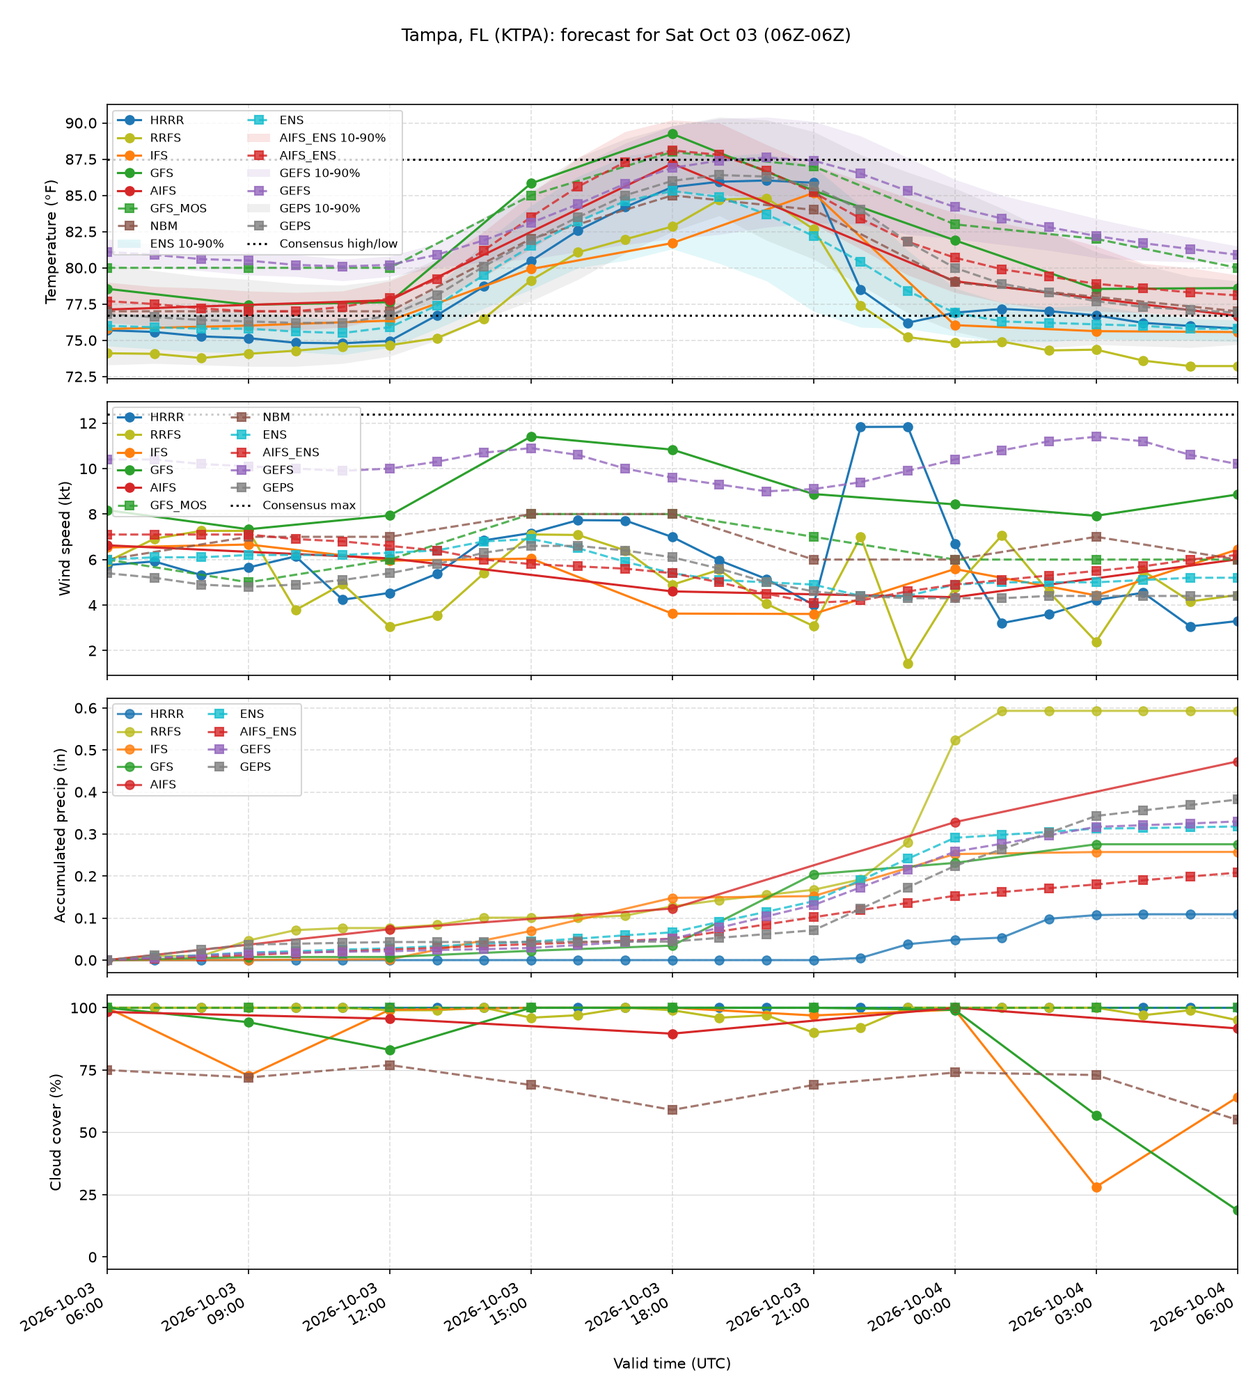
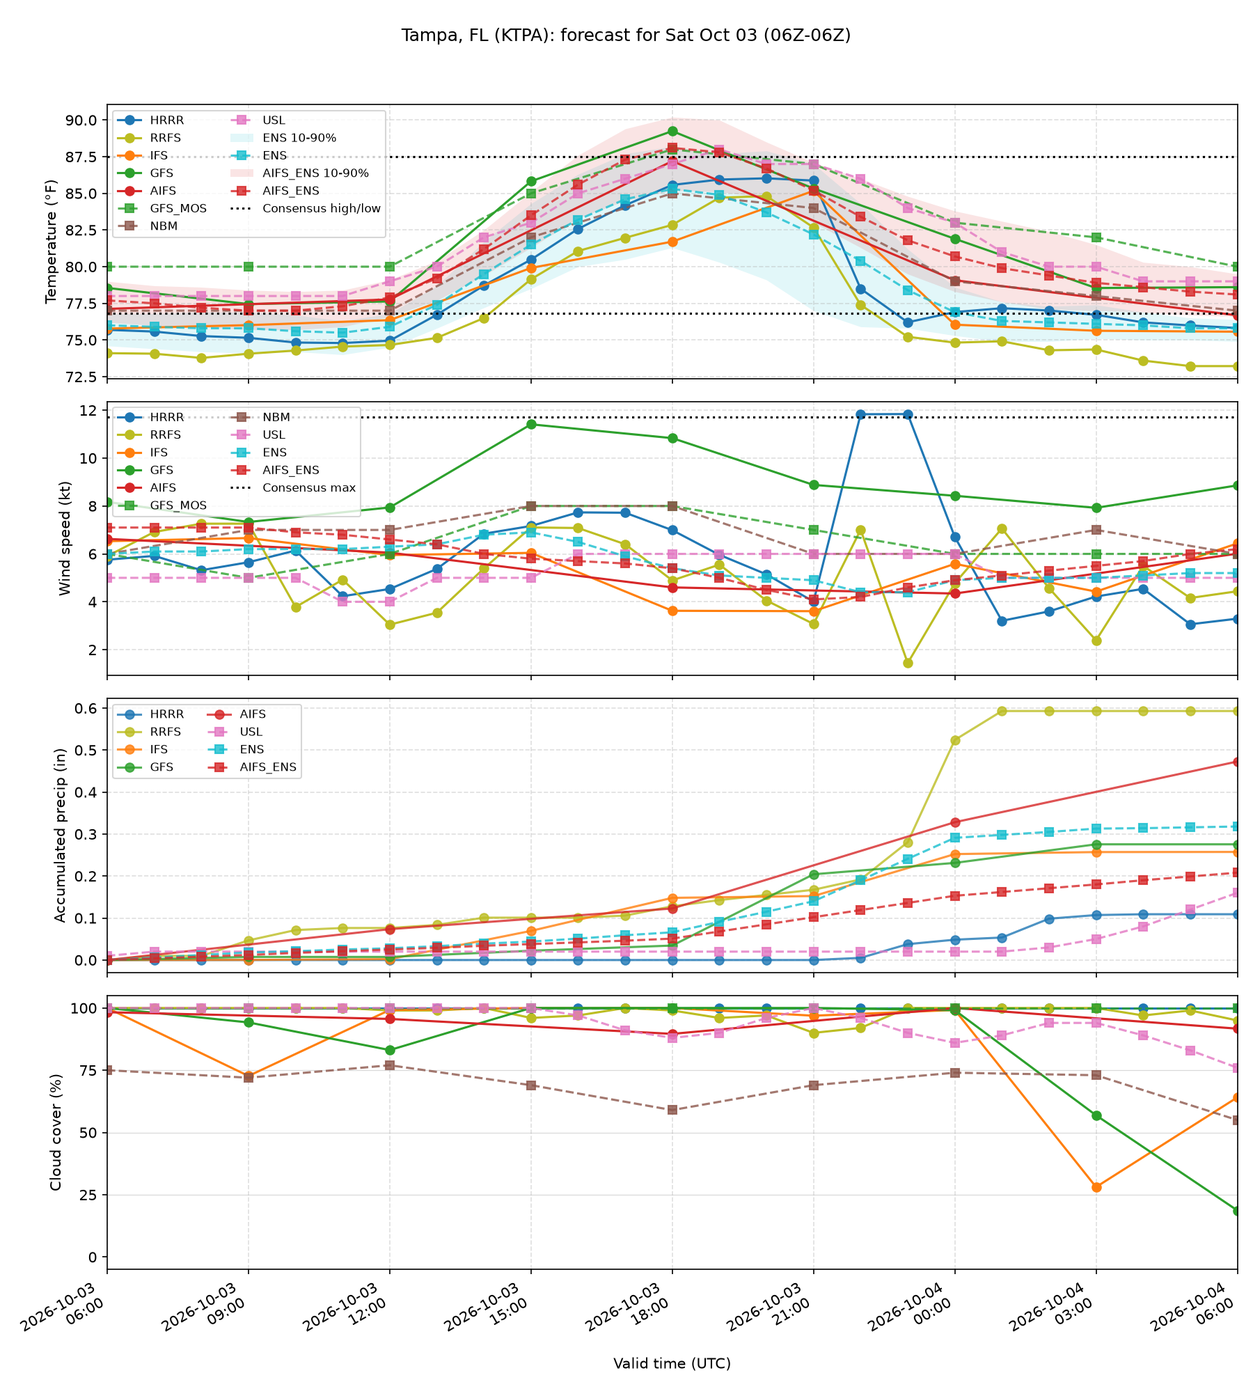
update wxchallenge: 2026-10-02T16:09:18+00:00

diff --git a/weather-forecasts/wxchallenge/index.html b/weather-forecasts/wxchallenge/index.html
@@ -15,6 +15,8 @@
       --neu:#f0efec; --c1:#86b6ef; --c2:#2a78d6; --c3:#184f95; --w1:#f09a99; --w2:#e34948; --w3:#a82c2c;
       --tip:#1f1f1e; --tip-ink:#ffffff;
       --hind:#e6ebf2; --hind-ink:#3d4250;
+      /* categorical series (PoP chart): fixed slot order, light steps */
+      --s1:#2a78d6; --s2:#eb6834; --s3:#1baf7a; --s4:#eda100;
       color-scheme: light;
     }
     @media (prefers-color-scheme: dark){
@@ -26,6 +28,7 @@
         --neu:#383835; --c1:#184f95; --c2:#2a78d6; --c3:#86b6ef; --w1:#a82c2c; --w2:#e34948; --w3:#f09a99;
         --tip:#f5f4f1; --tip-ink:#0b0b0b;
         --hind:#262c36; --hind-ink:#c9d1e0;
+        --s1:#3987e5; --s2:#d95926; --s3:#199e70; --s4:#c98500;
         color-scheme: dark;
       }
     }
@@ -37,6 +40,7 @@
       --neu:#383835; --c1:#184f95; --c2:#2a78d6; --c3:#86b6ef; --w1:#a82c2c; --w2:#e34948; --w3:#f09a99;
       --tip:#f5f4f1; --tip-ink:#0b0b0b;
       --hind:#262c36; --hind-ink:#c9d1e0;
+      --s1:#3987e5; --s2:#d95926; --s3:#199e70; --s4:#c98500;
       color-scheme: dark;
     }
     body{font-family:system-ui,-apple-system,Segoe UI,Roboto,sans-serif;max-width:1040px;margin:2rem auto;padding:0 16px;
@@ -77,7 +81,7 @@
     .k-med,.k-mean{display:inline-block;vertical-align:-1px;margin-right:4px}
     .k-med{width:3px;height:11px;background:var(--ink)}
     .k-mean{width:7px;height:7px;background:var(--e1);transform:rotate(45deg);margin:0 5px 1px 2px}
-    #today-table td.cell, #ens-prob td.cell{text-align:center;font-variant-numeric:tabular-nums;border:2px solid var(--bg);border-radius:4px}
+    #today-table td.cell, #ens-prob td.cell, #pop-table td.cell, #pop-rel td.cell{text-align:center;font-variant-numeric:tabular-nums;border:2px solid var(--bg);border-radius:4px}
     #today-table td.pending{color:var(--ink-3);background:transparent;border:1px dashed var(--line);font-style:italic}
     #today-table td.sum{text-align:right;font-variant-numeric:tabular-nums}
     #score td.cell{text-align:center;font-variant-numeric:tabular-nums;border:2px solid var(--bg);border-radius:6px;min-width:3.2rem}
@@ -132,6 +136,20 @@
     .evo-grid img{margin-top:0;border:1px solid var(--line);background:#fff}
     .evo-grid figcaption{font-size:0.85rem;color:var(--ink-2);margin-top:2px}
     .evo-links{padding-left:1.2rem;line-height:1.7}
+    /* chance of precipitation: table, small-multiple charts, reliability */
+    #pop-table{width:auto}
+    #pop-table td.cell{min-width:3.4rem}
+    #pop-table td.range{background:var(--neu);color:var(--ink);white-space:nowrap}
+    #pop-table td.basis{white-space:normal;font-size:0.85rem;color:var(--ink-2)}
+    .pop-charts{display:grid;grid-template-columns:repeat(auto-fit,minmax(260px,1fr));gap:18px;margin-top:1rem}
+    .pop-chart h4{margin:0 0 4px;font-size:0.95rem}
+    .pop-chart .lg{display:flex;flex-wrap:wrap;gap:4px 12px;font-size:0.8rem;color:var(--ink-2);margin-bottom:2px}
+    .pop-chart .lg i{display:inline-block;width:14px;height:3px;border-radius:2px;vertical-align:3px;margin-right:4px}
+    .pop-chart svg{width:100%;height:auto;display:block;overflow:visible}
+    .pop-chart circle.hit{fill:transparent;cursor:default}
+    #pop-rel{width:auto;margin-top:0.4rem}
+    #pop-rel td.cell{min-width:3rem;font-size:0.8rem}
+    #pop-rel-wrap h3{margin-top:1.4rem}
   </style>
 </head>
 
@@ -169,7 +187,8 @@
 
   <section id="ensembles">
     <h2>Ensembles</h2>
-    <p class="small">ECMWF IFS and AIFS ensembles (51 members each, via Open-Meteo), plus two 3 km precipitation
+    <p class="small">ECMWF IFS and AIFS ensembles (51 members each), NCEP GEFS (31) and the Canadian GEPS (21; these two
+      are shown and scored but not part of the consensus), all via Open-Meteo, plus two 3 km precipitation
       ensembles: REFS (NOAA's new operational short-range ensemble: RRFS, RRFS ensemble and HRRR members from the
       latest two cycles) and HRRRCast (NOAA GSL's experimental AI emulator of the HRRR, 18 members), for the same
       06Z–06Z day. Boxes span the middle half of the members (25th–75th percentile), whiskers the full range, the dark bar
@@ -184,6 +203,21 @@
     </div>
   </section>
 
+  <section id="pop" hidden>
+    <h2>Chance of precipitation</h2>
+    <p class="small">Chance of at least 0.01" (a trace counts as dry) in each 6-hour block of the 06Z–06Z day and
+      over the whole day. MOS and NBM text guidance (P06) and NBM QMD are calibrated probabilities; the ensembles
+      are the raw share of their members (uncalibrated, and coarse for small ensembles: note the member counts).
+      MOS has 6-hour chances only, so its 24-hour chance is shown as a range: at least the largest block chance,
+      at most the chance if the blocks were independent. None of this goes into the consensus.</p>
+    <div class="scroll">
+      <table id="pop-table" aria-label="Chance of precipitation by source"><tbody></tbody></table>
+    </div>
+    <p id="pop-qmd" class="small"></p>
+    <div id="pop-charts" class="pop-charts"></div>
+    <p class="small">Each line holds one source's chance for each 6-hour block (UTC); hover or tap a dot for
+      the value. The table above has every number.</p>
+  </section>
   <section>
     <h2>Latest Figure</h2>
     <img id="fig" alt="latest WXChallenge figure"/>
@@ -364,12 +398,21 @@
       <button data-view="tmin_f" aria-pressed="false">Low</button>
       <button data-view="wind_max_kt" aria-pressed="false">Wind</button>
       <button data-view="precip_in" aria-pressed="false">Precip</button>
+      <button data-view="pop" aria-pressed="false">Chance of precip</button>
     </div>
 
     <div id="score-wrap">
       <table id="score" aria-label="Model verification by day"><tbody><tr><td>Loading…</td></tr></tbody></table>
     </div>
     <div id="legend" class="legend"></div>
+    <div id="pop-rel-wrap" hidden>
+      <h3>Calibration of the precipitation chances</h3>
+      <p class="small">Every stored forecast day of every city, 24-hour and 6-hour chances together. For each
+        source and forecast range: how often precip (&ge; 0.01") was observed, and in how many forecasts (n). A
+        well-calibrated source sees rain about as often as it forecast; a few dozen forecasts are needed before
+        this means much.</p>
+      <div class="scroll"><table id="pop-rel" aria-label="Calibration of precipitation chances"><tbody></tbody></table></div>
+    </div>
     <p class="small">Each day is scored with the model's last forecast before the 00Z deadline, using
       WxChallenge-style points (1 per °F, 0.5 per kt, tiered precip). ★ = best model that day.
       Shaded days come before this city's first forecast day: they are hindcasts (the runs available at 23Z
@@ -406,7 +449,8 @@ const GROUPS = [
   { title: 'Grid models', rows: [['HRRR','HRRR'],['RRFS','RRFS'],['IFS','ECMWF IFS'],['GFS','GFS'],['AIFS','ECMWF AIFS']] },
   { title: 'Statistical / point guidance', rows: [['GFS_MOS','GFS MOS'],['NBM','NBM'],['USL','USL']] },
   { title: 'Ensembles (mean)', rows: [['ENS','ECMWF ENS'],['AIFS_ENS','AIFS ENS']] },
-  { title: 'Precip ensembles (median; not in consensus)', rows: [['REFS','REFS'],['HRRRCAST','HRRRCast (AI)']] },
+  { title: 'More ensembles (mean; not in consensus)', rows: [['GEFS','GEFS'],['GEPS','GEPS (Canadian)']] },
+  { title: 'Precip only (median; not in consensus)', rows: [['REFS','REFS'],['HRRRCAST','HRRRCast (AI)'],['NBM_QMD','NBM QMD (50% level)']] },
   { title: 'Blend', rows: [['CONSENSUS','Consensus']] },
 ];
 const LABEL = Object.fromEntries(GROUPS.flatMap(g => g.rows));
@@ -484,6 +528,8 @@ function consWeight(name){
 }
 
 function renderScore(){
+  if (VIEW === 'pop') return renderPopScore();
+  document.getElementById('pop-rel-wrap').hidden = true;
   const v = VERIF, table = document.getElementById('score'), legend = document.getElementById('legend');
   const days = (v.days || []).filter(d => Object.keys(d.models).length);
   if (!days.length) {
@@ -602,9 +648,12 @@ function moveTip(ev){
   tip.style.left = x + 'px'; tip.style.top = y + 'px';
 }
 const score = document.getElementById('score');
-score.addEventListener('pointerover', ev => { const td = ev.target.closest('td[data-model]'); if (td) showTip(td, ev); });
+score.addEventListener('pointerover', ev => {
+  if (VIEW === 'pop') { const td = ev.target.closest('td[data-pop-day]'); if (td) showPopScoreTip(td, ev); return; }
+  const td = ev.target.closest('td[data-model]'); if (td) showTip(td, ev);
+});
 score.addEventListener('pointermove', ev => { if (tip.style.display === 'block') moveTip(ev); });
-score.addEventListener('pointerout', ev => { if (ev.target.closest('td[data-model]')) tip.style.display = 'none'; });
+score.addEventListener('pointerout', ev => { if (ev.target.closest('td[data-model], td[data-pop-day]')) tip.style.display = 'none'; });
 document.addEventListener('scroll', () => { tip.style.display = 'none'; }, { passive: true });
 
 document.querySelectorAll('.tabs button').forEach(btn => btn.addEventListener('click', () => {
@@ -613,11 +662,15 @@ document.querySelectorAll('.tabs button').forEach(btn => btn.addEventListener('c
   try { localStorage.setItem('wxc-view', VIEW); } catch (e) {}
   if (VERIF) renderScore();
 }));
-matchMedia('(prefers-color-scheme: dark)').addEventListener('change', () => { if (VERIF) renderScore(); });
+matchMedia('(prefers-color-scheme: dark)').addEventListener('change', () => {
+  if (VERIF) renderScore();
+  if (Object.keys(POP_DATA).length) renderPop({ models: POP_DATA });
+});
 
 
 /* ---------- ensembles ---------- */
-const ENS_KEYS = [['ENS','ECMWF ENS'], ['AIFS_ENS','AIFS ENS'], ['REFS','REFS'], ['HRRRCAST','HRRRCast (AI)']];
+const ENS_KEYS = [['ENS','ECMWF ENS'], ['AIFS_ENS','AIFS ENS'], ['GEFS','GEFS'], ['GEPS','GEPS (Canadian)'],
+                  ['REFS','REFS'], ['HRRRCAST','HRRRCast (AI)']];
 // round-number tick spacing giving roughly n intervals across `range`
 function niceStep(range, n = 3){
   const raw = (range > 0 ? range : 1) / n, p = 10 ** Math.floor(Math.log10(raw)), f = raw / p;
@@ -699,6 +752,209 @@ function renderEnsembles(data){
   pt.innerHTML = p + '</tbody>';
 }
 
+/* ---------- chance of precipitation (PoP; display only, never in the consensus) ---------- */
+const POP_BLOCKS = ['06-12', '12-18', '18-00', '00-06'];
+const POP_FAMILIES = [
+  { title: 'Statistical guidance', rows: [['NBM_QMD','NBM QMD'], ['NBM','NBM text'], ['GFS_MOS','GFS MOS']] },
+  { title: 'Global ensembles', rows: [['ENS','ECMWF ENS'], ['AIFS_ENS','AIFS ENS'], ['GEFS','GEFS'], ['GEPS','GEPS']] },
+  { title: '3 km ensembles', rows: [['HRRRCAST','HRRRCast (AI)'], ['REFS','REFS']] },
+];
+const POP_LABEL = Object.fromEntries(POP_FAMILIES.flatMap(f => f.rows));
+const pct = p => `${Math.round(p * 100)}%`;
+const blockLabel = b => b.replace('-', '–') + 'Z';
+function popFill(v){
+  return v <= 0 ? 'var(--bg)' : `color-mix(in oklab, var(--c3) ${Math.round(v * 100)}%, var(--c1))`;
+}
+function popInk(v){
+  if (v <= 0) return 'var(--ink-3)';
+  return isDark() ? (v > 0.6 ? '#1a1a19' : '#ffffff') : (v > 0.55 ? '#ffffff' : '#0b0b0b');
+}
+function popCell(v, title){
+  if (v === null || v === undefined) return '<td class="cell small">—</td>';
+  return `<td class="cell num" style="background:${popFill(v)};color:${popInk(v)}"${title ? ` title="${title}"` : ''}>${pct(v)}</td>`;
+}
+function popBasis(p){
+  if (p.n_members) return `${p.n_members} members (raw share)`;
+  return p.basis === 'NBM QMD' ? 'calibrated (NBM QMD)' : `calibrated (${p.basis || 'MOS'})`;
+}
+let POP_DATA = {};
+function renderPop(data){
+  const sec = document.getElementById('pop'), models = data?.models || {};
+  POP_DATA = models;
+  const fams = POP_FAMILIES.map(f => ({ ...f, rows: f.rows.filter(([k]) => models[k]?.pop) })).filter(f => f.rows.length);
+  if (!fams.length) { sec.hidden = true; return; }
+  let h = '<thead><tr><th>Source</th>' + POP_BLOCKS.map(b => `<th class="num">${blockLabel(b)}</th>`).join('') +
+    '<th class="num">24 h</th><th>Basis</th></tr></thead><tbody>';
+  for (const f of fams) {
+    h += `<tr class="group"><td colspan="7">${f.title}</td></tr>`;
+    for (const [k, l] of f.rows) {
+      const m = models[k], p = m.pop;
+      h += `<tr><td>${l}<div class="small">${runLabel(m.init_time_utc)} run</div></td>` +
+        POP_BLOCKS.map(b => popCell(p.blocks?.[b])).join('');
+      if (p.p24 !== null && p.p24 !== undefined) h += popCell(p.p24);
+      else if (p.p24_range) h += `<td class="cell num range" title="Only 6-hour chances exist: the day's chance is at least the largest block and at most the independent-blocks value">${pct(p.p24_range[0])}–${pct(p.p24_range[1])}</td>`;
+      else h += '<td class="cell small">—</td>';
+      h += `<td class="basis">${popBasis(p)}</td></tr>`;
+    }
+  }
+  document.getElementById('pop-table').innerHTML = h + '</tbody>';
+  const q = models.NBM_QMD?.pop?.q24_in;
+  document.getElementById('pop-qmd').textContent = q
+    ? `NBM QMD 24-hour precip percentiles (dry outcomes included): ` +
+      Object.entries(q).map(([k, v]) => `${k}% ${v.toFixed(2)}"`).join(' · ') +
+      `. The 50% level is the amount that minimises the expected WxChallenge precip points.` : '';
+  document.getElementById('pop-charts').innerHTML = fams.map(popChart).join('');
+  sec.hidden = false;
+}
+// one small multiple per family: a step line per source over the four 6-h blocks
+function popChart(f){
+  const rows = f.rows.filter(([k]) => POP_BLOCKS.some(b => POP_DATA[k].pop.blocks?.[b] !== null && POP_DATA[k].pop.blocks?.[b] !== undefined));
+  const dayOnly = f.rows.filter(r => !rows.includes(r)).map(([, l]) => l);
+  const W = 340, H = 170, L = 34, R = 74, T = 8, B = 22, pw = W - L - R, ph = H - T - B;
+  const x = i => L + pw * i / 4, y = v => T + ph * (1 - v);
+  let g = '';
+  for (const v of [0, 0.25, 0.5, 0.75, 1])
+    g += `<line x1="${L}" x2="${L + pw}" y1="${y(v)}" y2="${y(v)}" stroke="var(--line)"/>` +
+         `<text x="${L - 6}" y="${y(v) + 3.5}" font-size="10" fill="var(--ink-3)" text-anchor="end">${v * 100}%</text>`;
+  ['06Z', '12Z', '18Z', '00Z', '06Z'].forEach((t, i) =>
+    g += `<text x="${x(i)}" y="${H - 6}" font-size="10" fill="var(--ink-3)" text-anchor="middle">${t}</text>`);
+  let lines = '', dots = '', hits = '';
+  const ends = [];
+  rows.forEach(([k, l], si) => {
+    const col = `var(--s${si + 1})`, bl = POP_DATA[k].pop.blocks;
+    let d = '';
+    POP_BLOCKS.forEach((b, i) => {
+      const v = bl[b];
+      if (v === null || v === undefined) return;
+      const prev = i > 0 ? bl[POP_BLOCKS[i - 1]] : null;
+      d += (prev === null || prev === undefined ? `M${x(i)},${y(v)}` : `L${x(i)},${y(v)}`) + ` L${x(i + 1)},${y(v)} `;
+      const cx = (x(i) + x(i + 1)) / 2;
+      dots += `<circle cx="${cx}" cy="${y(v)}" r="4" fill="${col}" stroke="var(--bg)" stroke-width="2"/>`;
+      hits += `<circle class="hit" cx="${cx}" cy="${y(v)}" r="11" data-pop-src="${k}" data-pop-b="${b}"/>`;
+    });
+    lines += `<path d="${d}" fill="none" stroke="${col}" stroke-width="2" stroke-linejoin="round"/>`;
+    const last = [...POP_BLOCKS].reverse().find(b => bl[b] !== null && bl[b] !== undefined);
+    if (last) ends.push({ l, col, y: y(bl[last]) });
+  });
+  // direct labels at the right edge, nudged apart so they never overlap
+  ends.sort((a, b) => a.y - b.y);
+  for (let i = 1; i < ends.length; i++) ends[i].y = Math.max(ends[i].y, ends[i - 1].y + 12);
+  const over = ends.length ? Math.max(0, ends[ends.length - 1].y - (T + ph + 4)) : 0;
+  ends.forEach(e => e.y -= over);
+  const labels = ends.map(e => `<text x="${L + pw + 6}" y="${e.y + 3.5}" font-size="10.5" fill="var(--ink-2)">${e.l}</text>`).join('');
+  const legend = rows.map(([k, l], si) => {
+    const n = POP_DATA[k].pop.n_members;
+    return `<span><i style="background:var(--s${si + 1})"></i>${l}${n ? ` (${n})` : ''}</span>`;
+  }).join('') + (dayOnly.length ? `<span>${dayOnly.join(', ')}: 24 h only (table)</span>` : '');
+  return `<figure class="pop-chart" style="margin:0"><h4>${f.title}</h4><div class="lg">${legend}</div>` +
+    (rows.length ? `<svg viewBox="0 0 ${W} ${H}" role="img" aria-label="${f.title}: chance of precipitation per 6-hour block">${g}${lines}${dots}${labels}${hits}</svg>` : '') +
+    '</figure>';
+}
+document.getElementById('pop-charts').addEventListener('pointerover', ev => {
+  const c = ev.target.closest('circle[data-pop-src]');
+  if (!c) return;
+  const k = c.dataset.popSrc, b = c.dataset.popB, p = POP_DATA[k]?.pop;
+  if (!p) return;
+  tip.innerHTML = `<b>${POP_LABEL[k] || k} · ${blockLabel(b)}</b><br>${pct(p.blocks[b])} chance of ≥ 0.01"` +
+    `<br><span style="opacity:.75">${popBasis(p)} · ${runLabel(POP_DATA[k].init_time_utc)} run</span>`;
+  tip.style.display = 'block';
+  moveTip(ev);
+});
+document.getElementById('pop-charts').addEventListener('pointermove', ev => { if (tip.style.display === 'block') moveTip(ev); });
+document.getElementById('pop-charts').addEventListener('pointerout', ev => { if (ev.target.closest('circle[data-pop-src]')) tip.style.display = 'none'; });
+
+/* the scoreboard's "Chance of precip" tab: each source's 24-h chance per day vs what happened */
+function renderPopScore(){
+  const pv = VERIF.pop, table = document.getElementById('score'), legend = document.getElementById('legend');
+  const rel = document.getElementById('pop-rel-wrap');
+  if (!pv || !pv.days?.length) {
+    table.innerHTML = '<tbody><tr><td>No verified chances of precipitation yet: they are kept from live runs from now on, ' +
+      'and scored once a forecast day has ended.</td></tr></tbody>';
+    legend.innerHTML = ''; rel.hidden = true;
+    document.getElementById('decay-note').textContent = '';
+    return;
+  }
+  const days = pv.days, sm = pv.summary || {};
+  const key = s => sm[s].brier_24h ?? (sm[s].brier_6h === null ? 9 : 1 + sm[s].brier_6h);
+  const srcs = Object.keys(sm).sort((a, b) => key(a) - key(b));
+  let head = '<thead><tr><th class="model">Source</th>' + days.map(d => {
+    const dt = new Date(d.date + 'T12:00:00Z');
+    return `<th class="day">${d.date.slice(5)}<span>${dt.toLocaleDateString(undefined, { weekday: 'short', timeZone: 'UTC' })}</span></th>`;
+  }).join('') + '<th class="sum">Brier<span>24 h · 6 h blocks</span></th></tr></thead>';
+  let obs = '<tr class="obs"><td class="model">Observed</td>' + days.map((d, i) => {
+    const o = d.obs['24h'];
+    const txt = o === null ? '—' : o ? `wet ${fmt(d.precip_in, 2)}` : 'dry';
+    return `<td class="cell" data-pop-day="${i}">${txt}</td>`;
+  }).join('') + '<td class="sum"></td></tr>';
+  const rows = srcs.map(k => {
+    const s = sm[k];
+    let tr = `<tr><td class="model">${POP_LABEL[k] || LABEL[k] || k}</td>`;
+    days.forEach((d, i) => {
+      const m = d.models[k], o = d.obs['24h'];
+      if (!m) { tr += '<td class="cell small">—</td>'; return; }
+      const attrs = `data-pop-day="${i}" data-pop-model="${k}"`;
+      if (m.p24 === null || m.p24 === undefined) {
+        const r = m.p24_range;
+        tr += `<td class="cell small" ${attrs}>${r ? `${Math.round(r[0] * 100)}–${pct(r[1])}` : '6 h'}</td>`;
+        return;
+      }
+      if (o === null) { tr += `<td class="cell" ${attrs}>${pct(m.p24)}</td>`; return; }
+      // forecast minus outcome: blue = too dry (wet day called unlikely), red = too wet
+      const step = biasStep(m.p24 - o, [0.2, 0.4, 0.6]);
+      tr += `<td class="cell" ${attrs} style="background:${biasFill(step)};color:${biasInk(step)}">${pct(m.p24)}</td>`;
+    });
+    const f = v => v === null || v === undefined ? '—' : v.toFixed(3);
+    tr += `<td class="sum"><b>${f(s.brier_24h)}</b><span>${f(s.brier_6h)} · ${s.n_days} d</span></td>`;
+    return tr + '</tr>';
+  });
+  const br = pv.base_rate || {};
+  const f3 = v => v === null || v === undefined ? '—' : v.toFixed(3);
+  const ref = br.freq_24h === null || br.freq_24h === undefined ? '' :
+    `<tr><td class="model" style="font-weight:400">Base rate<div class="small">hindsight reference</div></td>` +
+    days.map(() => '<td class="cell small"></td>').join('') +
+    `<td class="sum"><b>${f3(br.brier_24h)}</b><span>${f3(br.brier_6h)} · wet ${pct(br.freq_24h)} of days</span></td></tr>`;
+  table.innerHTML = head + '<tbody>' + obs + rows.join('') + ref + '</tbody>';
+  const sw = [-3, -2, -1, 0, 1, 2, 3].map(s => `<i style="background:${biasFill(s)}"></i>`).join('');
+  legend.innerHTML = `<span>Too dry</span><span class="swatches">${sw}</span><span>Too wet</span>
+    <span>· the cell is the day's chance of ≥ 0.01"; grey within 20 points of what happened</span>`;
+  document.getElementById('decay-note').textContent = 'On the "Chance of precip" tab: Brier score = average of ' +
+    '(chance − outcome)², outcome 1 if at least 0.01" fell, else 0; lower is better, 0.25 is a coin flip. ' +
+    'MOS has no single 24-hour chance (its range is shown) and is scored on its 6-hour blocks only. The base rate row ' +
+    'is what always forecasting this period\'s observed frequency would have scored. Only live runs are scored.';
+  renderPopRel(pv.reliability || {});
+  rel.hidden = false;
+}
+function renderPopRel(rel){
+  const srcs = Object.keys(rel).filter(k => rel[k].n).sort((a, b) => rel[b].n - rel[a].n);
+  const t = document.getElementById('pop-rel');
+  if (!srcs.length) { document.getElementById('pop-rel-wrap').hidden = true; return; }
+  const bins = rel[srcs[0]].bins.map(b => b.bin);
+  let h = '<thead><tr><th>Source</th>' + bins.map(([a, b]) => `<th class="num">${a * 100}–${b * 100}%</th>`).join('') +
+    '<th class="num">n</th></tr></thead><tbody>';
+  for (const k of srcs) {
+    h += `<tr><td>${POP_LABEL[k] || LABEL[k] || k}</td>` + rel[k].bins.map(b => b.n
+      ? `<td class="cell num" style="background:${popFill(b.obs_freq)};color:${popInk(b.obs_freq)}" title="${b.n} forecasts averaging ${pct(b.mean_p)}; rain in ${pct(b.obs_freq)}">${pct(b.obs_freq)}<span class="small" style="color:inherit;opacity:.75"> ·${b.n}</span></td>`
+      : '<td class="cell small">—</td>').join('') + `<td class="num">${rel[k].n}</td></tr>`;
+  }
+  t.innerHTML = h + '</tbody>';
+}
+function showPopScoreTip(td, ev){
+  const d = VERIF.pop.days[+td.dataset.popDay];
+  if (!d) return;
+  const k = td.dataset.popModel, m = k && d.models[k];
+  const ob = d.precip_6h_in || {};
+  const lines = POP_BLOCKS.map(b => {
+    const f = m?.blocks?.[b], o = ob[b];
+    return `${blockLabel(b)}: ${m ? (f === null || f === undefined ? '—' : pct(f)) + ' · ' : ''}` +
+      `${o === null || o === undefined ? 'obs —' : `obs ${o.toFixed(2)}"`}`;
+  });
+  tip.innerHTML = `<b>${k ? (POP_LABEL[k] || k) + ' · ' : ''}${d.date}</b><br>` +
+    (m ? `24 h: ${m.p24 !== null && m.p24 !== undefined ? pct(m.p24) : m.p24_range ? `${pct(m.p24_range[0])}–${pct(m.p24_range[1])}` : '—'} · ` : '') +
+    `observed ${fmt(d.precip_in, 2)}"<br>` + lines.join('<br>') +
+    (m?.n_members ? `<br><span style="opacity:.75">${m.n_members} members</span>` : '');
+  tip.style.display = 'block';
+  moveTip(ev);
+}
 /* ---------- today so far: errors ---------- */
 function renderToday(tj){
   const tb = document.getElementById('today-table');
@@ -777,6 +1033,7 @@ function renderToday(tj){
       document.getElementById('consensus-note').textContent = txt;
     }
     renderEnsembles(data);
+    try { renderPop(data); } catch (e) { document.getElementById('pop').hidden = true; console.error(e); }
     const fig = document.getElementById('fig');
     fig.src = `../images/wxchallenge/latest.png${bust}`;
     const tf = document.getElementById('today-fig');
